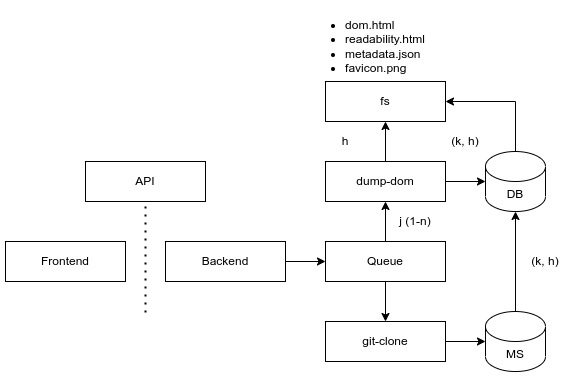
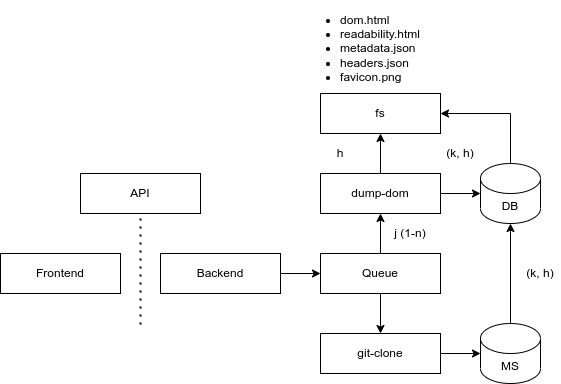
updating gitignore and README

diff --git a/README.md b/README.md
@@ -2,7 +2,7 @@
 #### Installation
 Just execute the file `install.sh` under after setting the correct execution permissions. Tested Setup: `Debian 6.1.82-1 (2024-03-28) x86_64 GNU/Linux`.
 
-#### Usage
+#### Usage (Node Module \[outdated])
 ```bash
 $ node dump-dom.mjs https://someurl.com/
 ```
@@ -26,6 +26,16 @@ ca4c460e6f3c65f7296f136e0e203b375dff565402f0c46e14cad3826697f936/
 - The file `favicon.png` contains a 32x32 favicon of the archived page
 - The file `headers.json` holds HTTP-response headers as a JSON object
 - The file `metadata.json` holds metadata about the archived page (title, timestamp)
+
+#### Usage (API \[recommended])
+1. Start the express server:
+```bash
+$ node app.js
+```
+2. Submit a new task to archive an URL:
+```bash
+$ curl -X GET http://127.0.0.1:3000/archive?url=https://evil.com
+```
 
 #### Architecture
 
